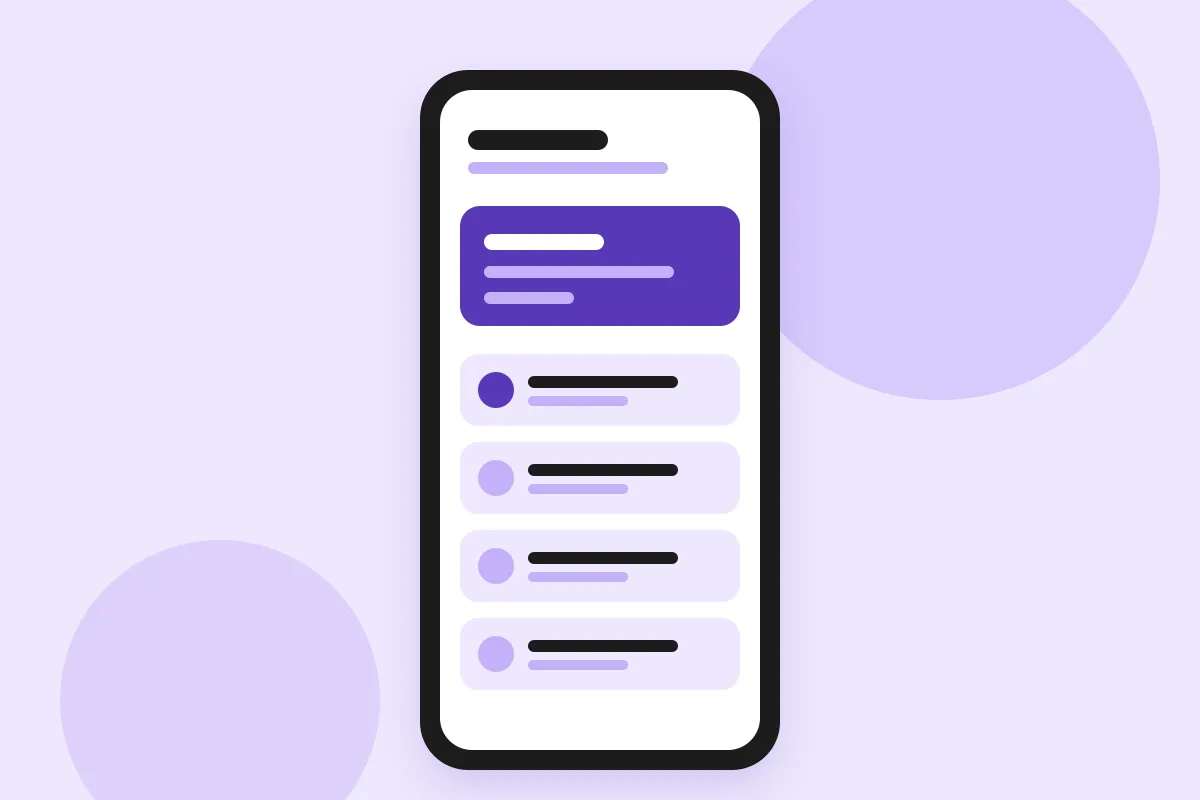
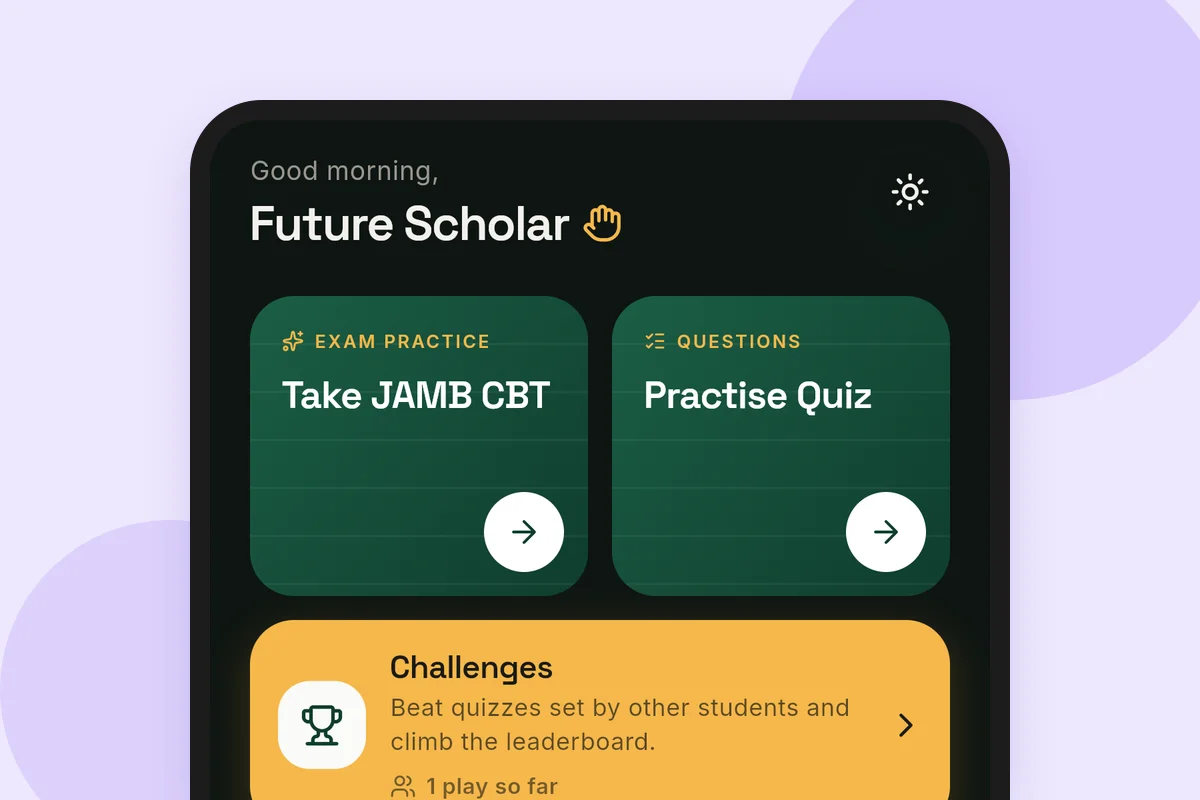
Use a real JambCBT screenshot and describe its actual features

diff --git a/src/content/products/jambcbt.md b/src/content/products/jambcbt.md
@@ -5,7 +5,7 @@ tagline: "Practise real JAMB questions, sit timed CBT mocks and see how ready yo
 description: "JambCBT by Upperkai: practise real JAMB questions, sit timed CBT mocks and see how ready you are before exam day."
 status: available
 image: ../../assets/images/upperkai-jambcbt-practice.webp
-imageAlt: "Illustration of the JambCBT practice screen on a phone"
+imageAlt: "The JambCBT home screen on a phone, with Take JAMB CBT, Practise Quiz and Challenges"
 category: "EducationalApplication"
 operatingSystem: "Web"
 appUrl: "https://jambcbt.app"
@@ -18,18 +18,22 @@ JAMB is a computer-based test, and many candidates meet that format for the firs
 
 ## What you can do with JambCBT
 
-### Practise real JAMB questions
+### Take a JAMB CBT mock
 
-Work through real JAMB questions subject by subject, at your own pace.
+Sit timed mock exams in the same computer-based format as the real test.
 
-### Sit timed CBT mocks
+### Study topic by topic or year by year
 
-Take full mock exams against the clock, in the same computer-based format as the real test.
+Work through the official JAMB syllabus one topic at a time, or go year by year with past questions.
+
+### Practise quizzes and challenges
+
+Take quick practice quizzes, or beat quizzes set by other students and climb the leaderboard.
 
 ### See how ready you are
 
-Your results show where you are strong and where you need more practice, so you know what to study next.
+Sign in and your scores, streaks and readiness are saved to your account, so you can pick up right where you left off.
 
 ## Who it is for
 
-JambCBT is for anyone preparing for JAMB who wants to practise in the real test format. It runs in the browser at [jambcbt.app](https://jambcbt.app), and you can add it to your phone's home screen like an app.
+JambCBT is for anyone preparing for JAMB who wants to practise in the real test format. It runs in the browser at [jambcbt.app](https://jambcbt.app), and you can install it to your phone's home screen, with no app store and no big download.
